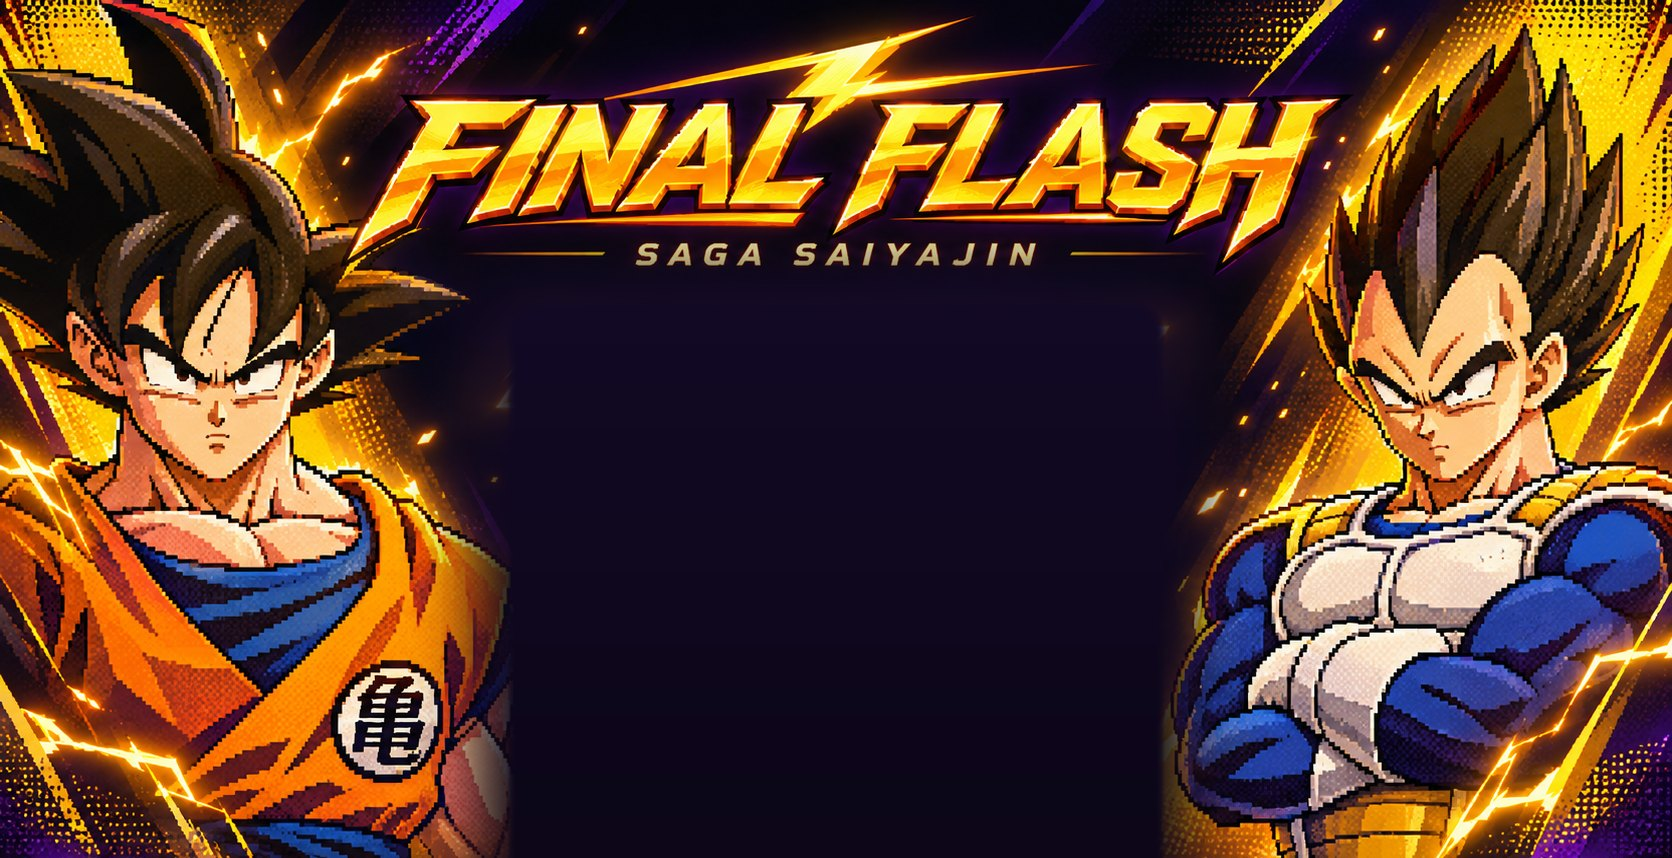
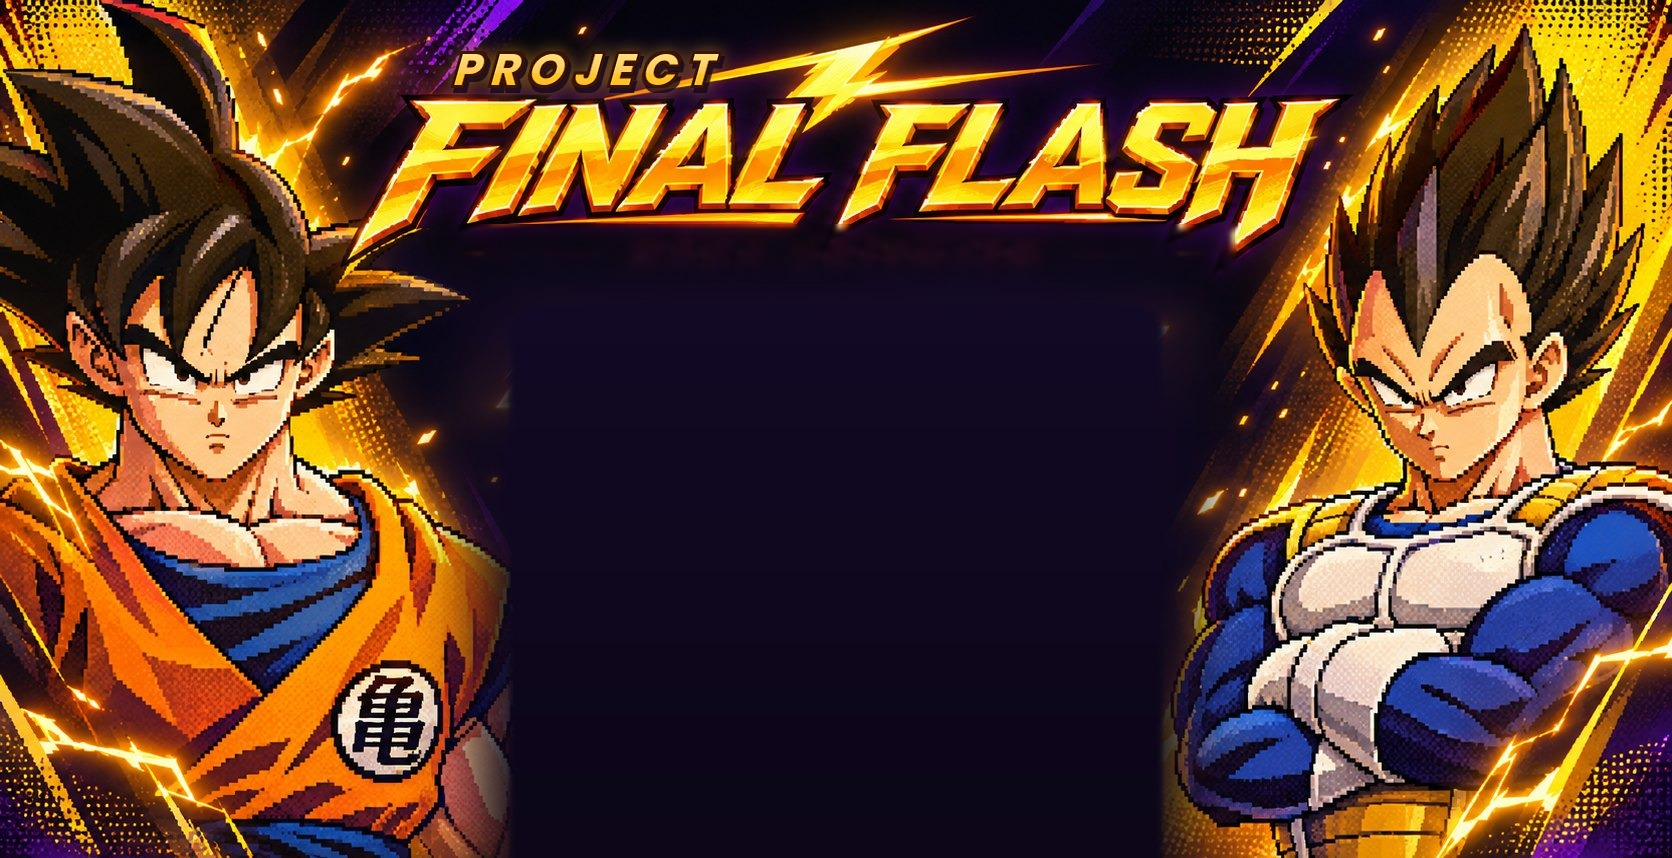
Project Final Flash: novo nome no título e Novo Jogo por sagas (Saiyajin + 3 em produção)
Claude-Session: https://claude.ai/code/session_01HCkMAAgACuqpzZVz4Rtuzg

diff --git a/js/main.js b/js/main.js
@@ -260,11 +260,47 @@ FF.Save = {
 
 // ---------- Novo Jogo: escolha do capítulo (os já liberados) ----------
 FF.NovoJogo = {
+  // sagas do modo história (só a Saiyajin existe por enquanto; as outras aparecem como "Em produção")
+  SAGAS: [{ id: 'saiyajin', nome: 'Saga Saiyajin', arquivo: 'data/historia.json' }, null, null, null],
+
+  // 1º passo: escolher a saga
   async abrir(mostrar, ir) {
-    const hist = await FF.Assets.loadJSON('data/historia.json');
+    this.saga = null;
+    this._mostrar = mostrar; this._ir = ir;
+    const save = FF.Save.get();
+    const box = document.getElementById('capitulos');
+    const dica = document.querySelector('#novojogo .sub-dica');
+    box.innerHTML = '';
+    dica.textContent = 'Escolha a saga';
+    for (const sg of this.SAGAS) {
+      const b = document.createElement('button');
+      b.className = 'cap-bt' + (sg ? '' : ' em-producao');
+      b.innerHTML = '<span><b></b><i></i></span>';
+      if (sg) {
+        const hist = await FF.Assets.loadJSON(sg.arquivo);
+        const n = hist.capitulos.length, feitos = Math.min(n, save.concluidos || 0);
+        b.querySelector('b').textContent = sg.nome;
+        b.querySelector('i').textContent = n + ' capítulos' + (feitos ? ' · ' + feitos + ' concluído(s)' : '');
+        if (feitos >= n) b.classList.add('feito');
+        b.onclick = (e) => { e.stopPropagation(); FF.Audio.play('decide_charasel', 0.6); this.capitulos(sg, mostrar, ir); };
+      } else {
+        b.querySelector('b').textContent = '🚧 Em produção';
+        b.querySelector('i').textContent = 'Nova saga em breve';
+        b.disabled = true;
+      }
+      b.addEventListener('mouseenter', () => { if (!b.disabled) b.focus({ preventScroll: true }); });
+      box.appendChild(b);
+    }
+    mostrar('novojogo');
+  },
+
+  // 2º passo: capítulos da saga escolhida
+  async capitulos(sg, mostrar, ir) {
+    const hist = await FF.Assets.loadJSON(sg.arquivo);
     const save = FF.Save.get();
     const liberado = Math.min(hist.capitulos.length, (save.concluidos || 0) + 1);
     const box = document.getElementById('capitulos');
+    document.querySelector('#novojogo .sub-dica').textContent = sg.nome + ' · escolha por onde começar';
     box.innerHTML = '';
     hist.capitulos.forEach(c => {
       const b = document.createElement('button');
@@ -285,6 +321,7 @@ FF.NovoJogo = {
       };
       box.appendChild(b);
     });
+    this.saga = sg;   // "Voltar" volta para a escolha da saga
     mostrar('novojogo');
   },
 };
@@ -589,6 +626,7 @@ window.addEventListener('load', () => {
     if (ac === 'continuar') return ir('?historia=' + (FF.Save.get().capitulo || 1));
     if (ac === 'livre') { intro.className = 'selecao'; FF.Selecao.abrir(); FF.Voltar.armar(); return; }
     if (ac === 'treino') return mostrar('treino');
+    if (ac === 'voltar' && intro.className === 'novojogo' && FF.NovoJogo.saga) return FF.NovoJogo.abrir(mostrar, ir);
     if (ac === 'voltar') return mostrar('menu');
     if (ac === 'apagar') {
       if (confirm('Apagar o progresso (capítulos, AP e treinamento)?')) { const v = FF.Save.get().volumes; FF.Save.apagar(); if (v) FF.Save.set({ volumes: v }); }

diff --git a/index.html b/index.html
@@ -3,7 +3,7 @@
 <head>
 <meta charset="utf-8">
 <meta name="viewport" content="width=device-width, initial-scale=1, maximum-scale=1, user-scalable=no, viewport-fit=cover">
-<title>Final Flash</title>
+<title>Project Final Flash</title>
 <link rel="manifest" href="manifest.webmanifest">
 <meta name="theme-color" content="#0c0a14">
 <meta name="mobile-web-app-capable" content="yes">
@@ -25,8 +25,7 @@
   <div id="inicio">
     <canvas class="titulo-banner esq" width="134" height="163"></canvas>
     <canvas class="titulo-banner dir" width="134" height="163"></canvas>
-    <h1>FINAL FLASH</h1>
-    <h3>Saga Saiyajin</h3>
+    <h1>PROJECT FINAL FLASH</h1>
     <p id="carregando">Toque ou aperte Enter para começar</p>
     <div id="titulo-menu" class="menu-titulo">
       <button data-acao="continuar">Continuar</button>
@@ -39,7 +38,7 @@
     <div class="titulo-rodape"><span>↑↓ Selecionar</span><span><b>Enter</b> Confirmar</span></div>
     <div id="novojogo" class="menu-titulo">
       <div class="sub-titulo"><span>Novo Jogo</span></div>
-      <div class="sub-dica">Escolha por onde começar a Saga Saiyajin</div>
+      <div class="sub-dica">Escolha a saga</div>
       <div id="capitulos"></div>
       <button data-acao="voltar">Voltar</button>
     </div>

diff --git a/css/style.css b/css/style.css
@@ -406,3 +406,7 @@ html { -webkit-text-size-adjust: 100%; text-size-adjust: 100%; }
 .cmd-golpes button.sparking { border-color: #3fc8ff; background: linear-gradient(90deg, #0e3060, #1a5a90 60%, #0e3060); }
 .cmd-golpes button.supremo.sel, .cmd-golpes button.sparking.sel { border-color: #ffd84a; }
 .cmd-desc { border-top-color: rgba(201,149,44,0.5); }
+
+/* Novo Jogo: sagas ainda não feitas */
+.cap-bt.em-producao { opacity: 0.55; }
+.cap-bt.em-producao b { color: #ffcf6b; }

diff --git a/docs/DIARIO.md b/docs/DIARIO.md
@@ -190,3 +190,5 @@ Jogo estável no início (1v1 e todas as batalhas novas terminaram sem ERROS). F
 - Música do menu: `assets/audio/menu_chala.ogg` (arquivo enviado pelo usuário, convertido de MP3 para OGG, 2,6 MB). `FF.Audio.musicaMenu()` (nome em `FF.Audio.MENU`) toca no 1º toque da tela de título e na volta direta para a seleção; continua nos submenus e na Batalha Livre e é trocada pela música da luta. `FF.Audio.music` não reinicia a mesma música e, se o navegador bloquear o som, tenta de novo no primeiro toque/tecla.
 - Música do menu também na tela "Toque ou aperte Enter": tenta tocar ao abrir a página; se o navegador bloquear som antes de um gesto, começa no primeiro toque/tecla (sem reiniciar nem tocar em dobro).
 
+- Nome do jogo: **Project Final Flash** (arte do título editada: "PROJECT" acima do logo e "SAGA SAIYAJIN" removido; título da página e manifest). Novo Jogo agora escolhe a saga primeiro (`FF.NovoJogo.SAGAS`: Saga Saiyajin + 3 vagas "🚧 Em produção"); dentro da saga, os capítulos, e "Voltar" volta para as sagas.
+

diff --git a/README.md b/README.md
@@ -1,6 +1,6 @@
-# Final Flash: Saga Saiyajin
+# Project Final Flash
 
-> **Modo história:** na tela de título escolha *Novo Jogo* (4 capítulos: Raditz → Saibamen → Nappa → Vegeta, com diálogos entre as lutas). *Continuar* retoma o capítulo salvo no navegador; *Batalha Livre* abre qualquer luta; *Treinamento (AP)* gasta os pontos ganhos nas vitórias; *Opções* ajusta os volumes. Atalhos: `?historia=N` e `?batalha=saiyajin_0N` na URL.
+> **Modo história:** na tela de título escolha *Novo Jogo* → *Saga Saiyajin* (as outras sagas aparecem como "Em produção"; 4 capítulos: Raditz → Saibamen → Nappa → Vegeta, com diálogos entre as lutas). *Continuar* retoma o capítulo salvo no navegador; *Batalha Livre* abre qualquer luta; *Treinamento (AP)* gasta os pontos ganhos nas vitórias; *Opções* ajusta os volumes. Atalhos: `?historia=N` e `?batalha=saiyajin_0N` na URL.
 
 Batalha por turnos em HTML/JavaScript puro que reaproveita os sprites e áudios do Z Legends 3. Não usa o editor do Construct.
 
